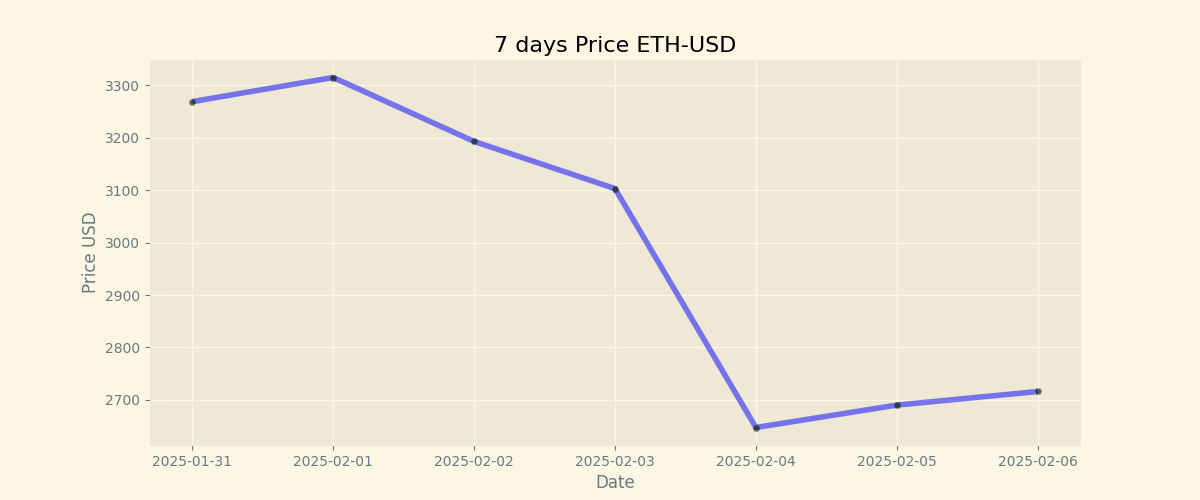
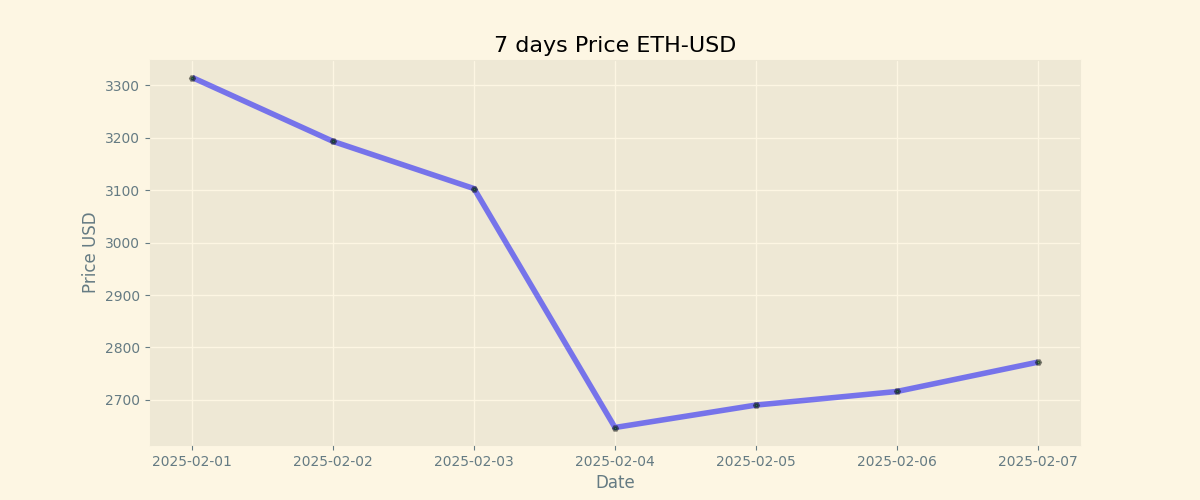
Duty Updates 2025-02-07

diff --git a/README.md b/README.md
@@ -9,8 +9,8 @@
 
 | Currency | Price           |
 | -------- | --------------- |
-| **BTC**  | **$ 97800.0** |
-| **ETH**  | **$ 2715.93** |
+| **BTC**  | **$ 99000.0** |
+| **ETH**  | **$ 2771.86** |
 
 ## BTC chart
 
